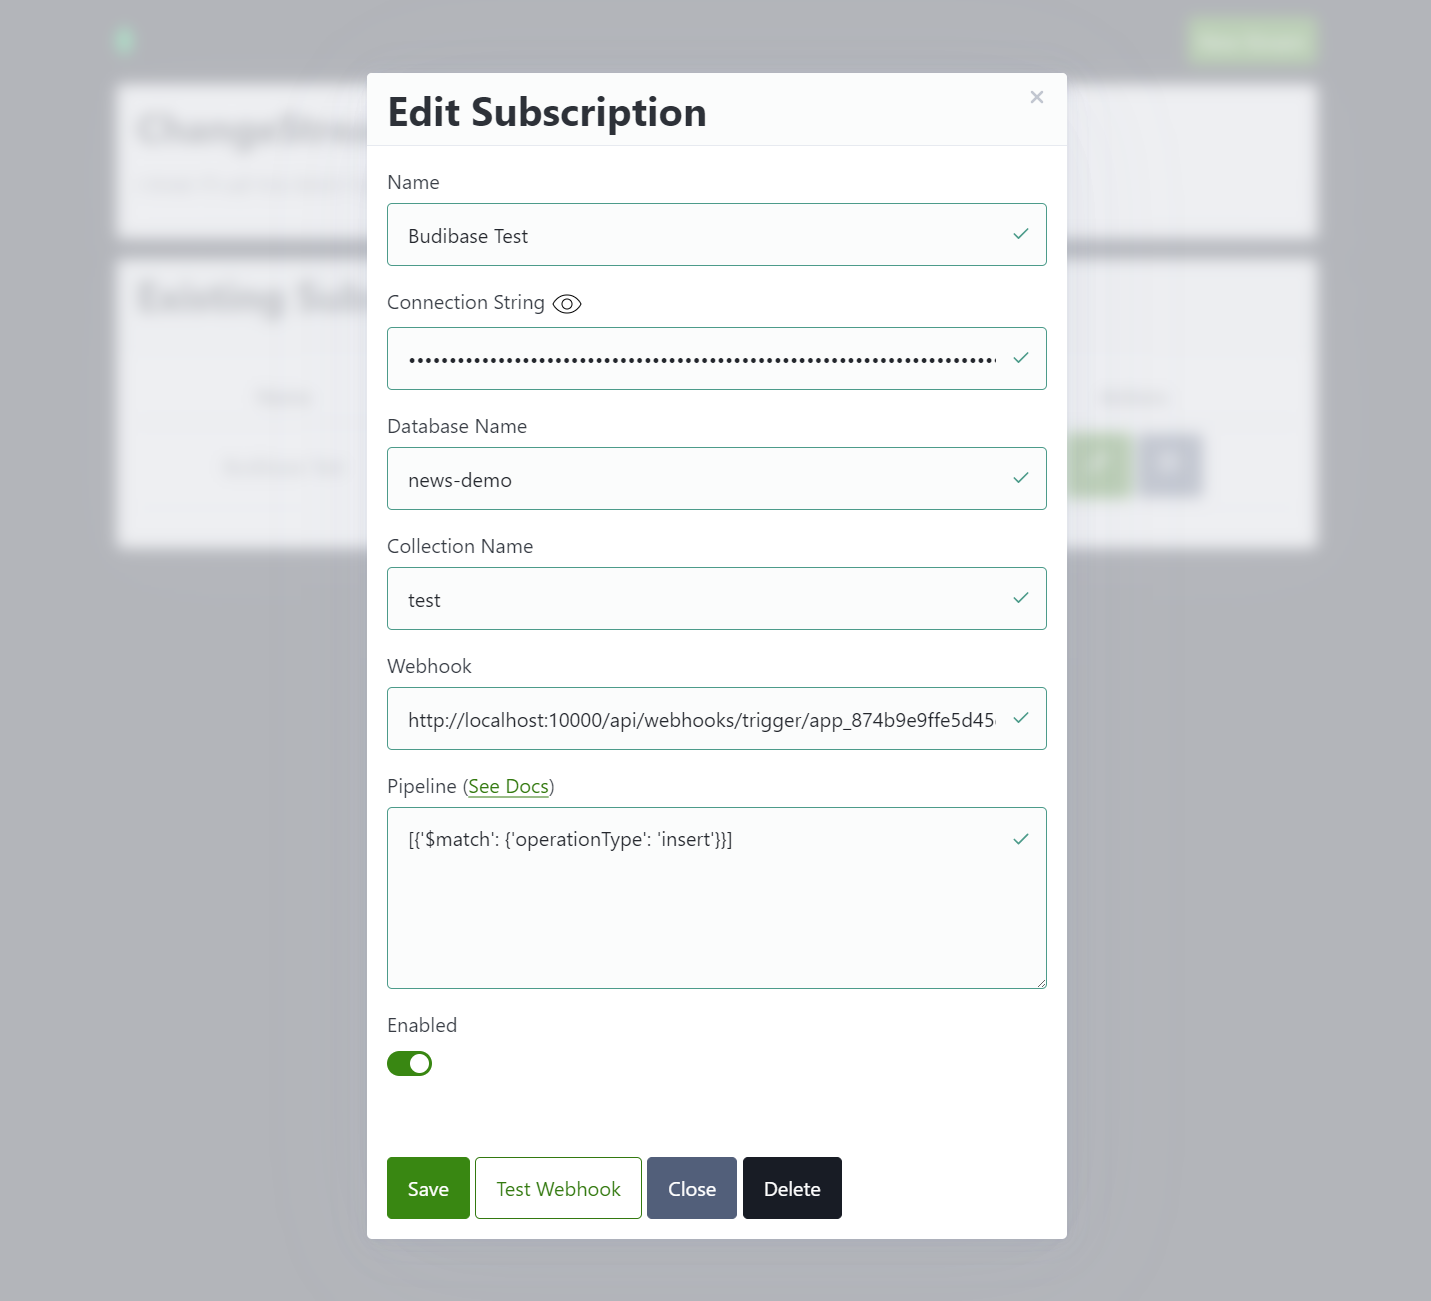
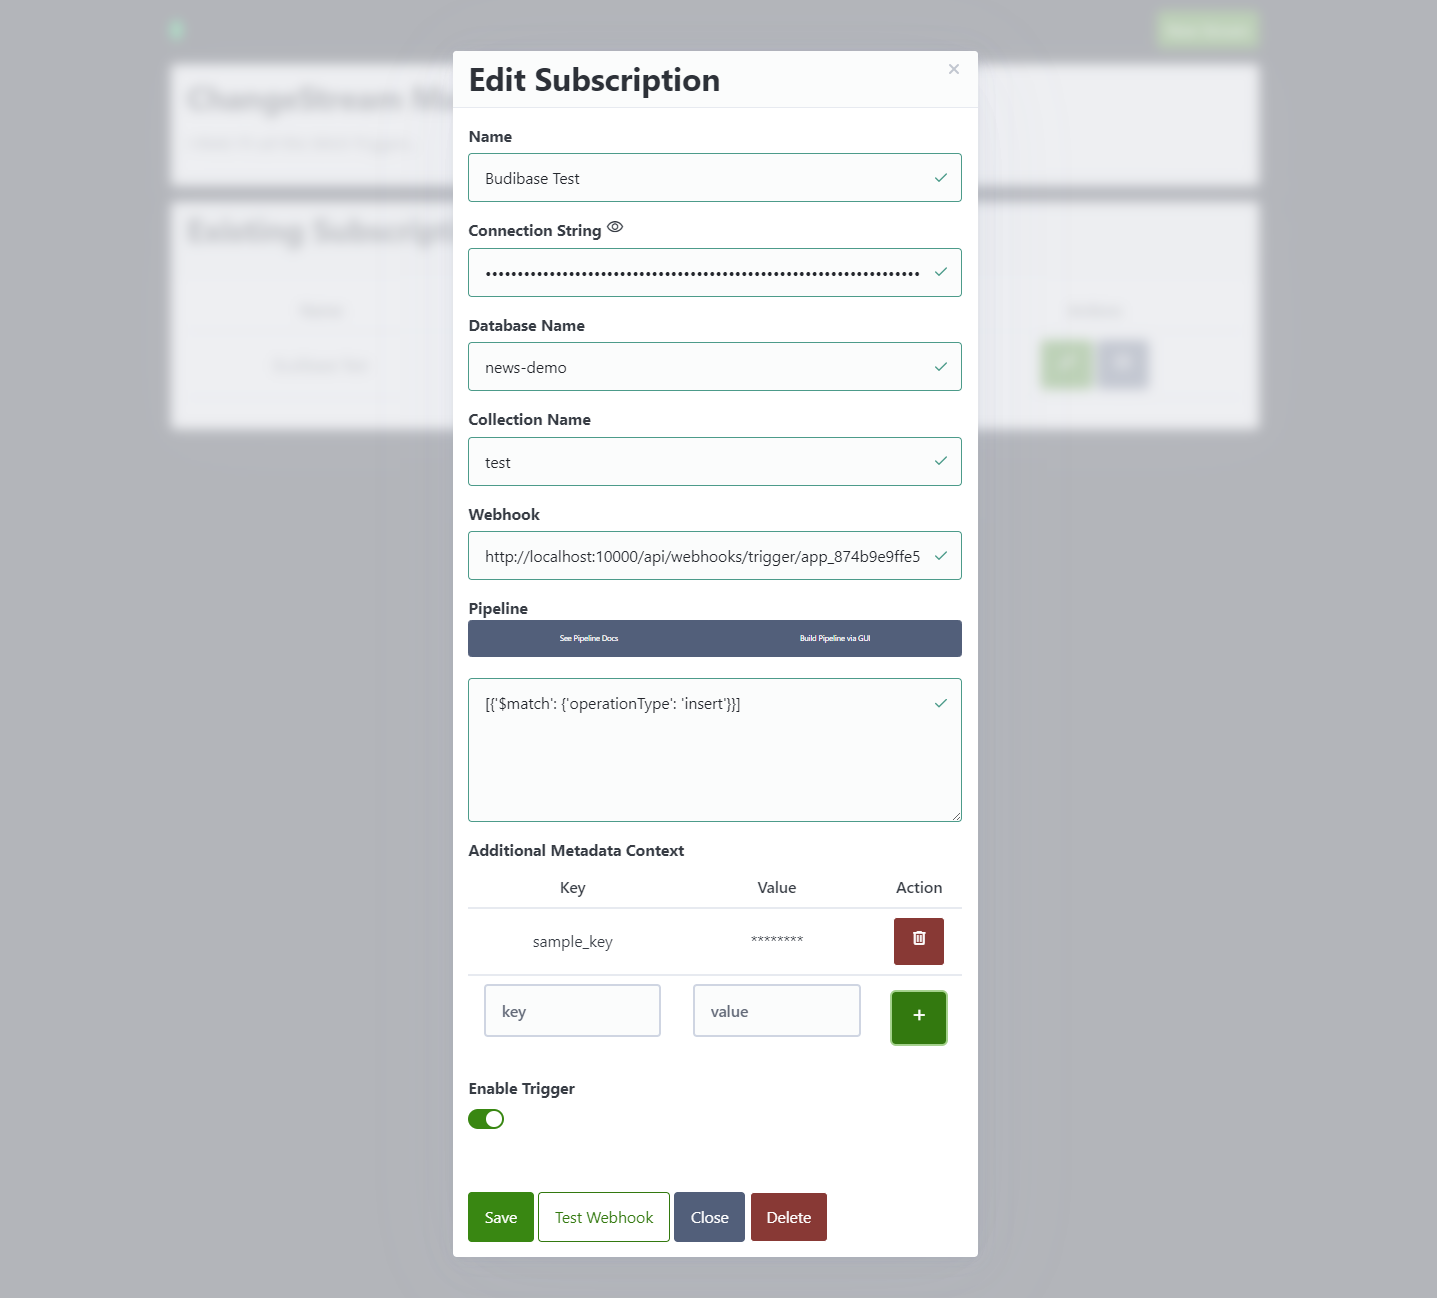
block plaintext values and new screenshot

diff --git a/backend/static/index.html b/backend/static/index.html
@@ -111,9 +111,23 @@
                             Please provide a valid webhook!
                         </small>
 
-                        <label for="pipeline">Pipeline (<a href="https://www.mongodb.com/docs/manual/reference/change-events/" target="_blank">See Docs</a>)</label>
+                        <label for="pipeline">
+                            Pipeline 
+                            <div role="group">
+                                <a href="https://www.mongodb.com/docs/manual/reference/change-events/" target="_blank" x-show="!checkboxes" class="secondary" role="button"  style="font-size: x-small; height: 50%;">
+                                    See Pipeline Docs
+                                </a> 
+                                <button class="secondary" x-show="!checkboxes" x-on:click="checkboxes=true" style="font-size: x-small; height: 50%;">Build Pipeline via GUI</button>
+                                <button x-show="checkboxes" x-on:click="generatePipeline" class="secondary"  style="font-size: x-small; height: 50%;">Generate Pipeline Query</button>
+                            </div>
+                        </label>
+                        
+                        <textarea x-show="!checkboxes" x-model="selectedStream.pipeline" rows="5":aria-invalid="selectedStream.pipeline.length === 0 ? 'true':'false'"></textarea>
+                        <small x-show="selectedStream.pipeline.length === 0">
+                            Please provide a valid Pipeline! A default pipeline would be <code>[]</code>
+                        </small>
+                        
                         <fieldset x-show="checkboxes">
-                            <legend>Watched operations:</legend>
                             <input x-model="selectedPipelineOptions" type="checkbox" value="insert" name="insert" id="insert" />
                             <label for="insert">insert</label>
                             <input x-model="selectedPipelineOptions" type="checkbox" value="update" name="update" id="update" />
@@ -123,13 +137,6 @@
                             <input x-model="selectedPipelineOptions" type="checkbox" value="delete" name="delete" id="delete" />
                             <label for="delete">delete</label>
                         </fieldset>
-                        <button x-show="checkboxes" x-on:click="generatePipeline">Generate Pipeline</button>
-
-                        <button x-show="!checkboxes" x-on:click="checkboxes=true">Build Pipeline via GUI</button>
-                        <textarea x-show="!checkboxes" x-model="selectedStream.pipeline" rows="5":aria-invalid="selectedStream.pipeline.length === 0 ? 'true':'false'"></textarea>
-                        <small x-show="selectedStream.pipeline.length === 0">
-                            Please provide a valid Pipeline! A default pipeline would be <code>[]</code>
-                        </small>
 
                         <label>Additional Metadata Context</label>
                         <table>
@@ -144,7 +151,7 @@
                                 <template x-for="s in selectedStream.secrets">
                                     <tr>
                                         <td x-text="s.key"></td>
-                                        <td x-text="s.value"></td>
+                                        <td x-text="s.value.replace(/./g, '*')"></td>
                                         <td>
                                             <button class="btn-delete" x-on:click="selectedStream.secrets = selectedStream.secrets.filter((c) => c != s)">
                                                 <span class="material-symbols-outlined">delete</span>

diff --git a/README.md b/README.md
@@ -45,6 +45,7 @@ First, create a "New Stream":
 * Collection Name - the collection inside the database to watch
 * Pipeline - The ChangeStream change event filter pipeline
 * Webhook - the URL to which to HTTP POST the full change event
+* Additional metadata context - any key/value you want to send in the payload. Will be in the `secretsMetadata` field. The value is stored encrypted in the database
 * Enabled - checkbox to enable/disable the watch
 
 Upon saving or any modification, the system will `watch` that collection using the `pipeline` provided and forward any `change_event` to the URL provided as a `POST`
@@ -58,6 +59,8 @@ This may be more useful when using Budibase as a Budibase Webhook will provide a
 ![](/screenshots/ss01.png)
 
 ![](/screenshots/ss02.png)
+
+![](/screenshots/ss02_alt.png)
 
 ![](/screenshots/ss03.png)
 
